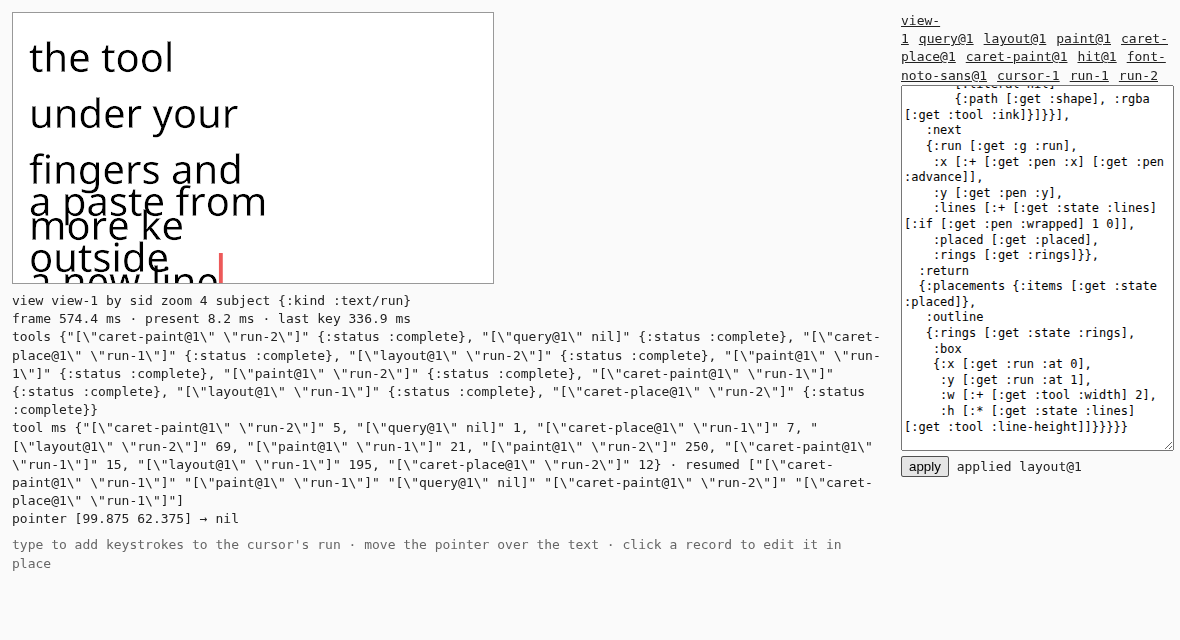
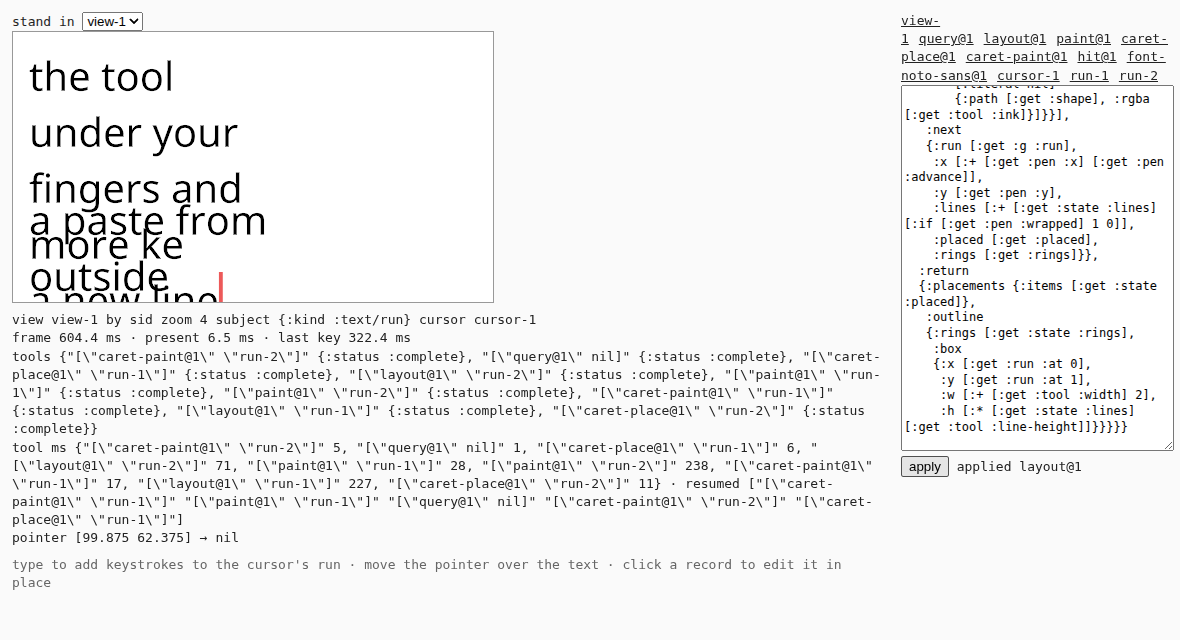
Stand two views on one subject: an agent's view with its own cursor
A second query tool matches kind and asserter; view-2 belongs to an agent,
names view-1 as where it came from, shows Sid's runs alone at its own zoom
and pins its own cursor in Sid's run. The page keeps a frame per view and
a selector to stand in one; a key typed in a view carries that view's
asserter into the run's keystroke stream. Receipts: the agent's view,
pointing and typing in it, and Sid's view resumed where it stood.

Claude-Session: https://claude.ai/code/session_01FLB4jGEAmzmtPeq6jB2jCr

Changed region(s): [[0.0, 0.0, 0.7322, 0.9375], [0.3051, 0.8438, 0.5186, 0.9062], [0.5492, 0.8438, 0.6712, 0.9062]]

diff --git a/probes/text-tool-on-the-waist/view/index.html b/probes/text-tool-on-the-waist/view/index.html
@@ -14,6 +14,7 @@
 </head>
 <body>
   <div>
+    <div>stand in <select id="views"></select></div>
     <canvas id="painting" width="480" height="270"></canvas>
     <pre id="readout"></pre>
     <pre id="hint">type to add keystrokes to the cursor's run · move the pointer over the text · click a record to edit it in place</pre>

diff --git a/src/app/client/view/README.md b/src/app/client/view/README.md
@@ -30,7 +30,12 @@ What a view record says: `:subject` (the where-clause its query tool
 matches), `:tools` (record ids, in order; a tool marked `:per :run` runs per
 run), `:hit-tool`, `:pins` (scope name → record id), `:zoom`, `:origin`,
 `:by`, `:from`. Running a view is running its tools under that scope; two
-people on one subject are two views.
+people on one subject are two views: `view-1` is Sid's, every run, his
+cursor, zoom 4; `view-2` is an agent's, handed `view-1` to look from
+(`:from`), Sid's runs alone through a query that matches the asserter too,
+its own cursor in Sid's run, zoom 3. The browser keeps a frame per view, so
+standing in one and back resumes where it stood; a key typed in a view
+carries that view's asserter into the run's stream.
 
 Rows the tools hand each other: the query's run ids → per run, the layout's
 placements, rings and box → the painter's painting on that box → the caret

diff --git a/probes/text-tool-on-the-waist/README.md b/probes/text-tool-on-the-waist/README.md
@@ -71,6 +71,7 @@ move by tens of percent between runs):
 | Point at the tool, change one field in the page's editor | `05-width-60.png` (wrap at 60), `06-foreign-full-size.png` (foreign scale 1); status "applied layout@1" |
 | Move the cursor record; the caret follows | `07-cursor-at-3.png` |
 | The store survives a reload | `08-after-reload.png` |
+| Stand in the agent's view: Sid's runs alone, the agent's cursor, zoom 3, from view-1; point, type (the keys carry `agent:claude`), stand back in Sid's view where it stood | `09-view-2.png`, `10-view-2-typed.png`, `11-back-in-view-1.png` |
 
 | Measured, first form: one layout and one painting for the whole view | ms |
 |---|---:|
